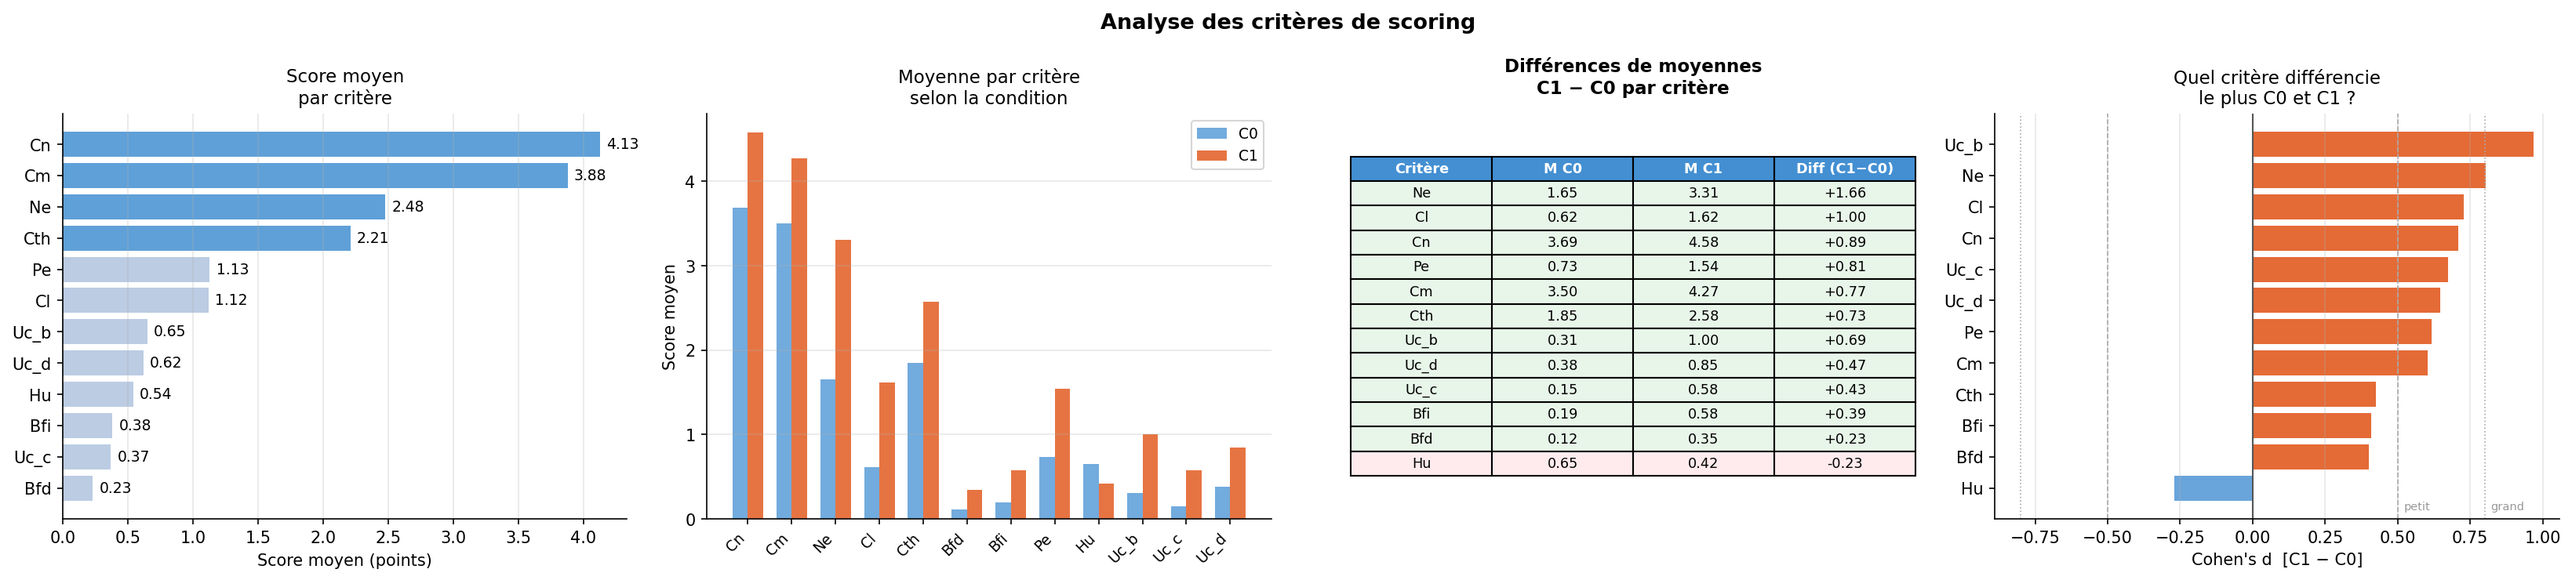
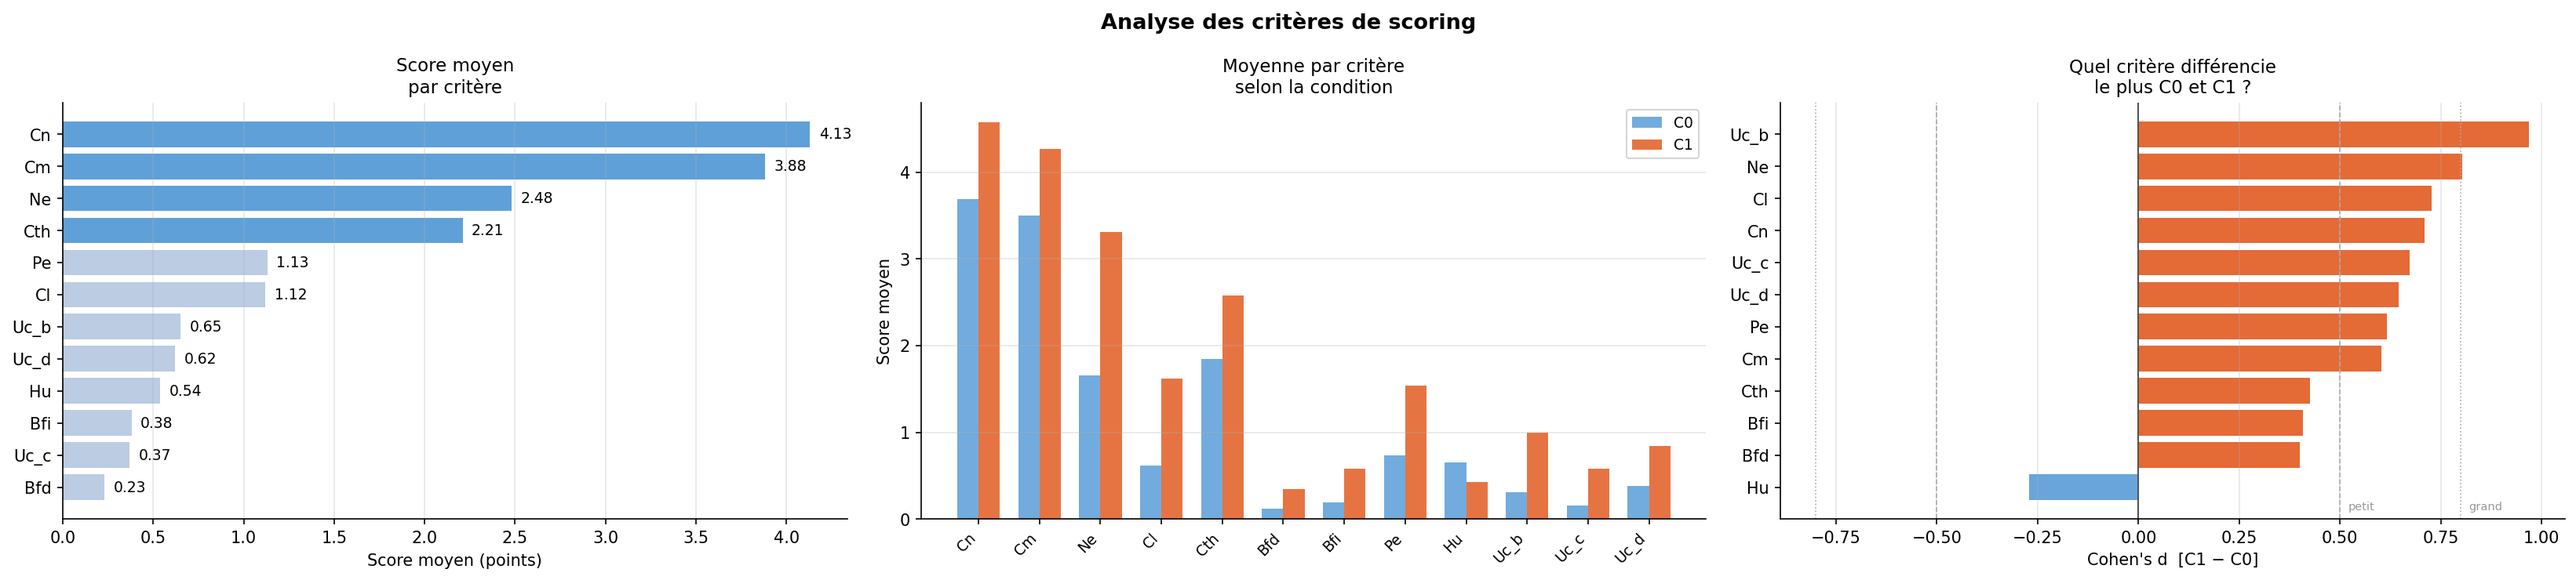
Minor fix for critere score

diff --git a/pc_dev/stats/criteres_scoring.py b/pc_dev/stats/criteres_scoring.py
@@ -46,7 +46,7 @@ print(ds_series)
 
 
 # Graphique (4 panels)
-fig, axes = plt.subplots(1, 4, figsize=(22, 5))
+fig, axes = plt.subplots(1, 3, figsize=(22, 5))
 fig.suptitle("Analyse des critères de scoring", fontsize=13, fontweight="bold")
 
 
@@ -86,7 +86,7 @@ ax2.spines[["top", "right"]].set_visible(False)
 
 # Panel 3 : Cohen's d par critère
 # Un d positif = C1 > C0, négatif = C0 > C1
-ax4 = axes[3]
+ax4 = axes[2]
 ds_triees  = ds_series.sort_values()
 couleurs_d = ["#DE4503" if v >= 0 else "#438FD2" for v in ds_triees]
 ax4.barh(ds_triees.index, ds_triees.values, color=couleurs_d, alpha=0.8)
